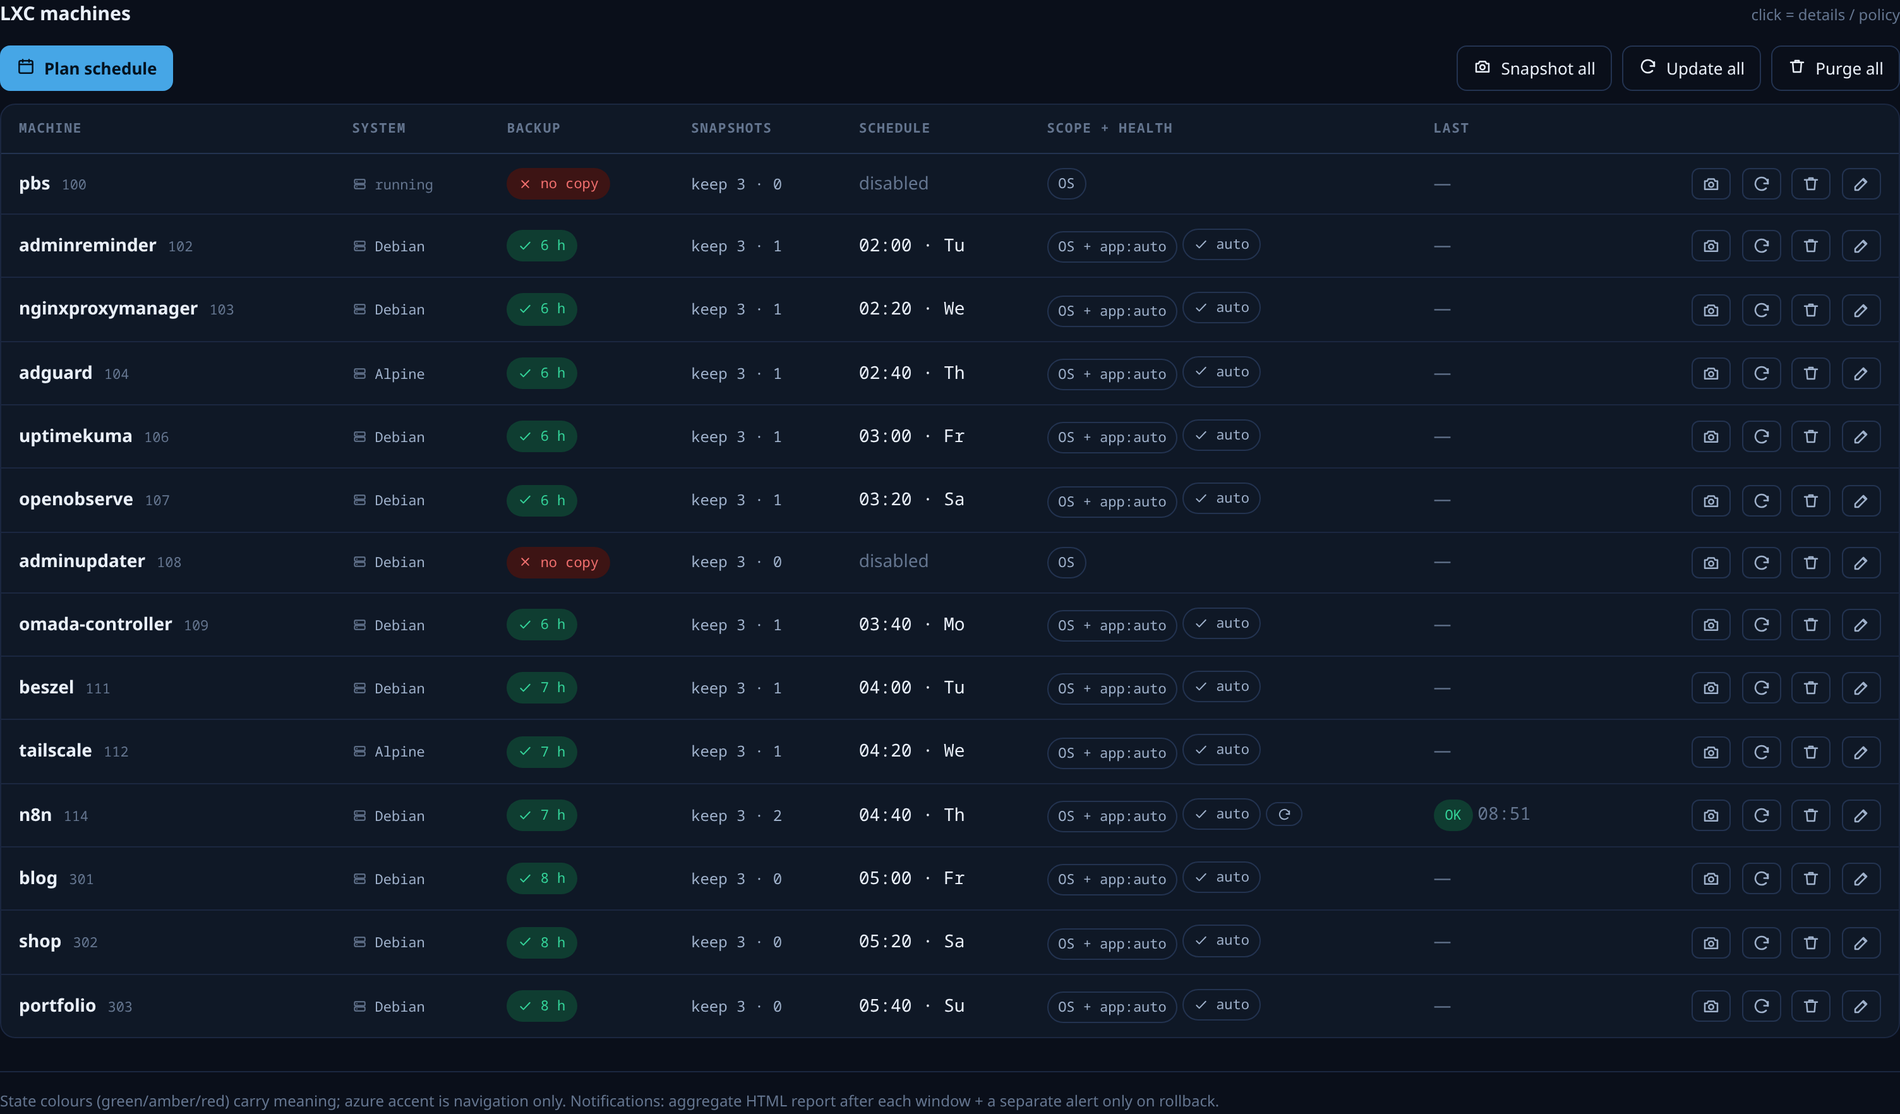
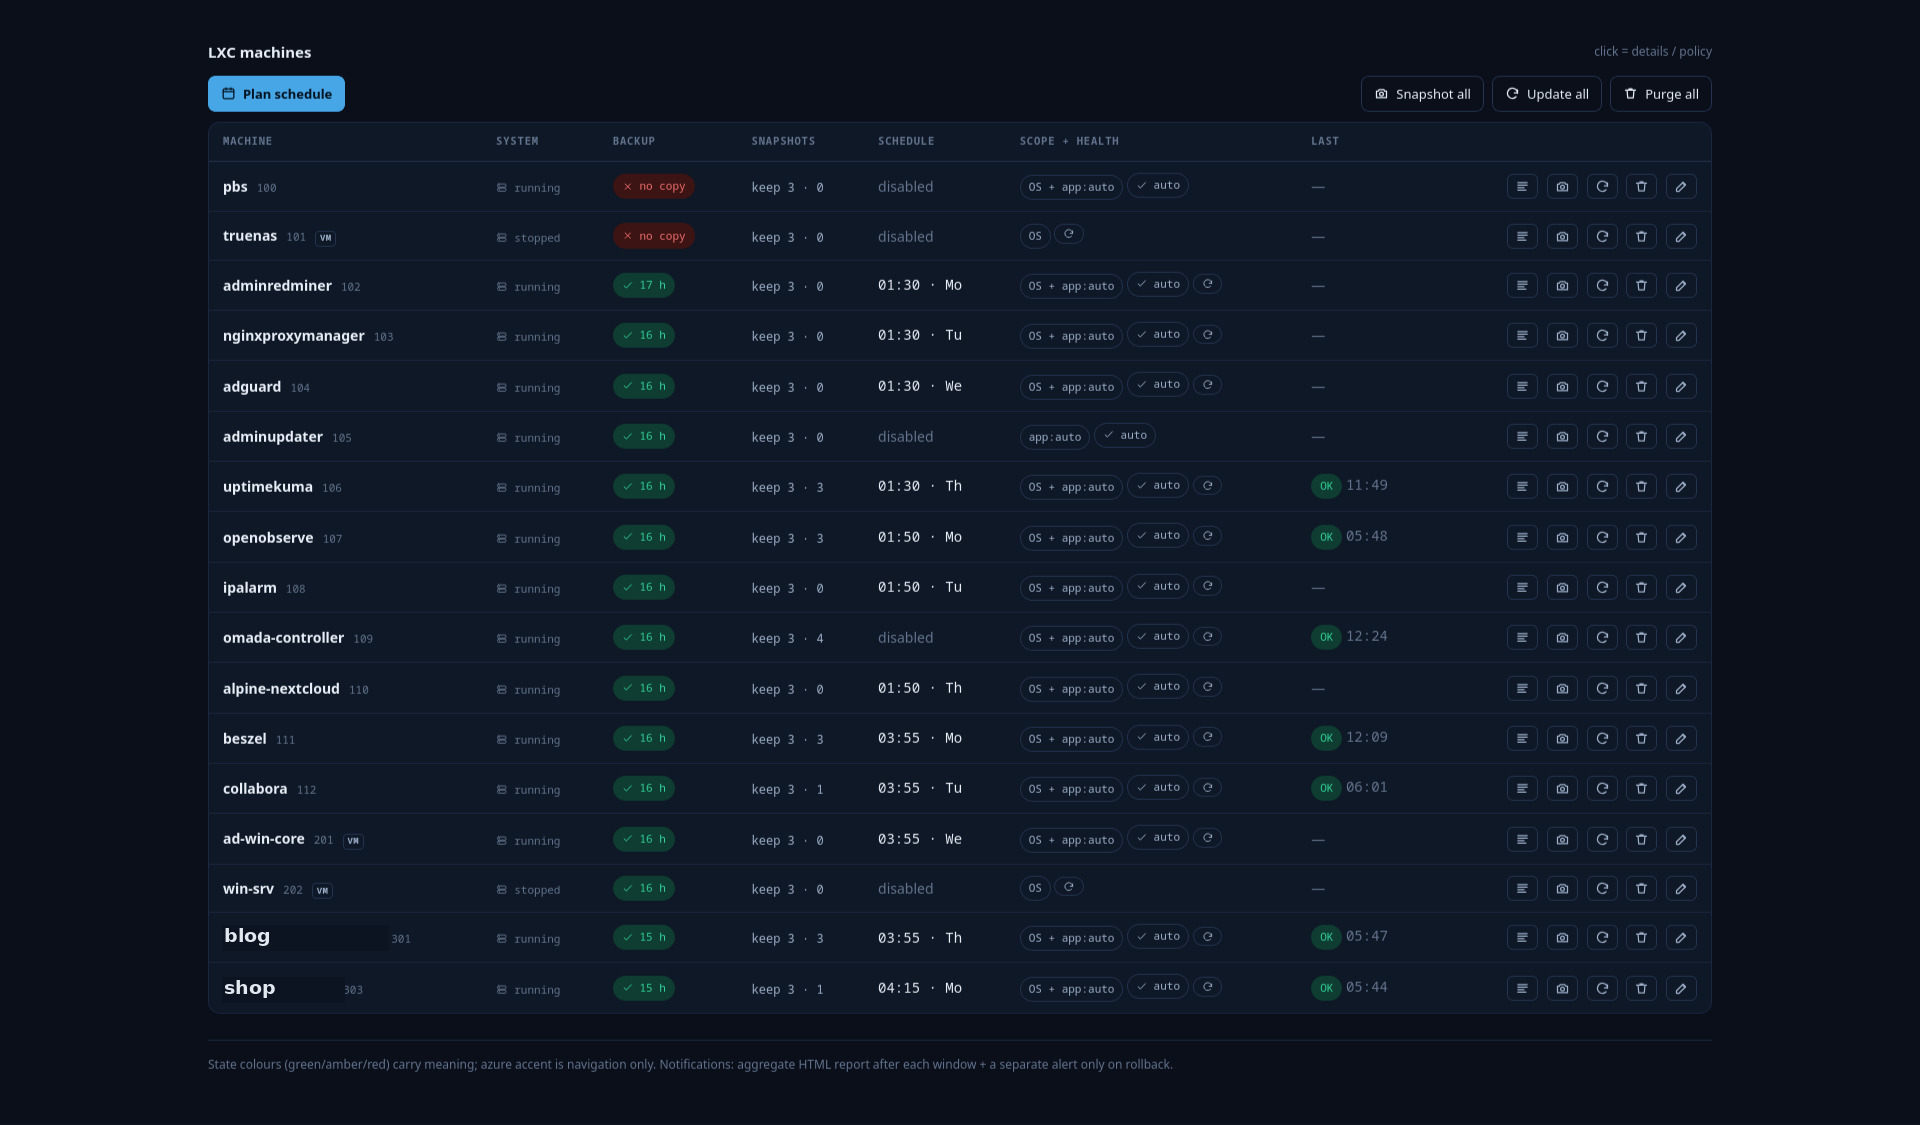
docs: refresh screenshots for VM support + add the setup wizard walkthrough
The fleet-table and service-window screenshots predated QEMU VM support and
the green update-window markers; replaced both with current, anonymized
captures (guest names swapped for generic demo ones, matching the existing
blog/shop convention; the backup-window storage name is anonymized too).

Added four new screenshots documenting the first-run wizard end to end
(scan → machines → schedule → scope+health), which had no visual
documentation before despite being the primary onboarding path: VM/agent
detection, the live per-guest exclusion preview, the new update-pacing
(fixed/cascade) control, and the Windows Update scope option.

diff --git a/README.md b/README.md
@@ -22,8 +22,10 @@ detected **backup window** in red — its true duration learned from the PVE tas
 history, so a job that runs 23:00→01:22 across midnight blocks the whole span — and
 the **PVE host update** in amber. **Other scheduled host maintenance** competing for
 disk IO (ZFS scrub/trim, mdadm check, e2scrub, fstrim, unattended apt, offsite
-backups) shows per-night as read-only rows you can one-click "avoid". Each enrolled
-guest (LXC or VM) is laid out around them (snapshot → update → prune, time, retention). A live
+backups) shows per-night as read-only rows you can one-click "avoid". The thin
+**green ticks** mark the configured update window's own start/end (from Settings) —
+live, so editing the window moves them immediately. Each enrolled guest (LXC or VM)
+is laid out around all of that (snapshot → update → prune, time, retention). A live
 API/executor watchdog and refresh-cadence counters sit in the header. EN/PL and
 light/dark built in.
 
@@ -36,11 +38,11 @@ the only competition. Nothing is hidden just because it is empty.
 
 ![Week view — a quiet night](docs/dashboard-week-quiet.png)
 
-**Fleet table** — LXC containers and QEMU VMs side by side: per-guest backup
-freshness, snapshot count, update scope + health-check, its scheduled **night +
-time**, and one-click Snapshot / Update / Purge / Edit. The example shows the
-whole fleet **spread across the week** (Mo–Su) with auto app-update (`app:auto`)
-and an auto health-check.
+**Fleet table** — LXC containers and QEMU VMs side by side (the `VM` tag marks a
+QEMU guest): per-guest backup freshness, snapshot count, update scope +
+health-check, its scheduled **night + time**, and one-click Snapshot / Update /
+Purge / Edit. The example shows the whole fleet **spread across the week** (Mo–Su)
+with auto app-update (`app:auto`) and an auto health-check.
 
 ![Fleet machines](docs/dashboard-machines.png)
 
@@ -50,6 +52,46 @@ grouping (one digest per service window, or one e-mail per machine) and the form
 rides your Proxmox mail transport — the SMTP server and credentials stay on the host.
 
 ![Notifications](docs/notifications.png)
+
+### The setup wizard
+
+First run (or **Settings → Wizard**) walks the whole fleet through five steps, with
+the *real* service window rendered live underneath every step — not a static
+preview, the actual timeline the panel uses everywhere else, updating as you tick
+boxes and change fields.
+
+**1 · Scan** — reads the host once and shows what it found: the fleet split into
+LXC/VM, backup coverage, every detected backup window (with its real learned
+duration) and what else competes for disk IO that night. VMs without a QEMU Guest
+Agent response are called out here, not discovered later at update time. Guests
+with **no backup at all** (`pbs`, `truenas` below) are flagged and excluded from
+auto-update by default — opt them in consciously.
+
+![Wizard — scan](docs/wizard-scan.png)
+
+**2 · Machines** — every guest is enrolled by default; untick the ones the schedule
+should **not** touch. This is live: unticking a guest drops it out of the service
+window underneath immediately, instead of only taking effect after finishing the
+wizard.
+
+![Wizard — machines](docs/wizard-machines.png)
+
+**3 · Schedule** — set the maintenance window, which nights it may use, and the
+**update pacing**: *fixed spacing* (each guest gets its own clock slot,
+`spacing_min` apart) or **cascade** (one lane, no fixed gap — every guest sharing a
+contiguous stretch of the night triggers at the same time and the host's single
+serial executor just runs them back to back, so a guest that finishes early never
+leaves the next one idling). Press **Propose** and the placement — including which
+guests didn't fit — appears live in the timeline below.
+
+![Wizard — schedule](docs/wizard-schedule.png)
+
+**4 · Scope + health** — the default policy for everyone with a fresh backup: OS
+security patches (with a **Windows Update scope** — all applicable updates, or just
+the Security + Critical classifications, for Windows guests), the application
+update convention, reboot behaviour, and the post-update health-check.
+
+![Wizard — scope and health](docs/wizard-scope-health.png)
 
 > Screenshots use anonymized demo data.
 
